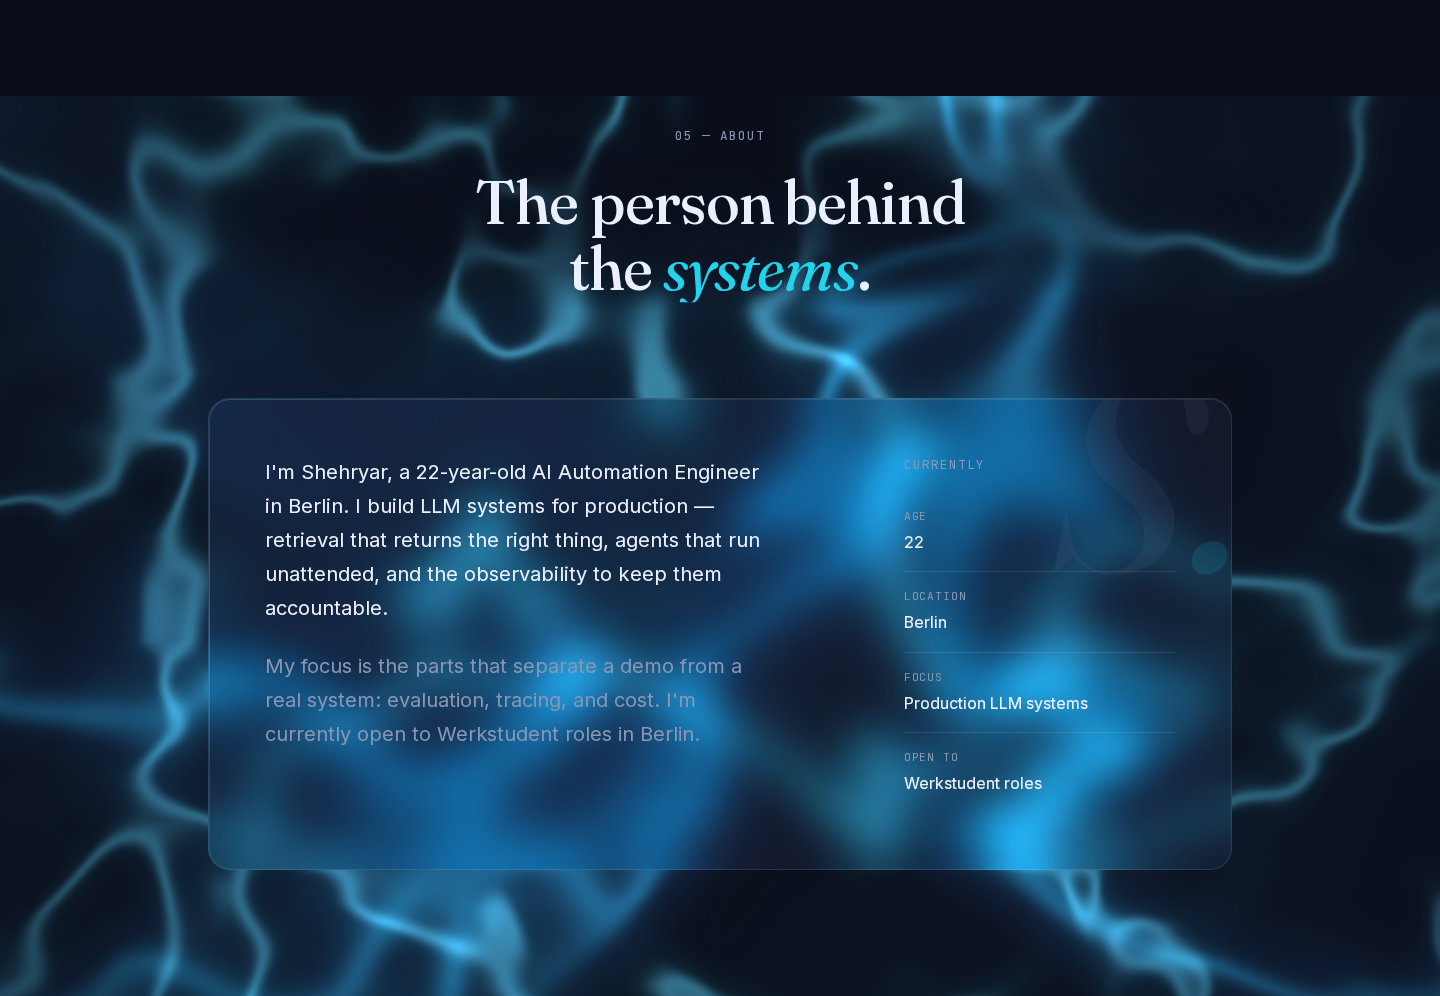
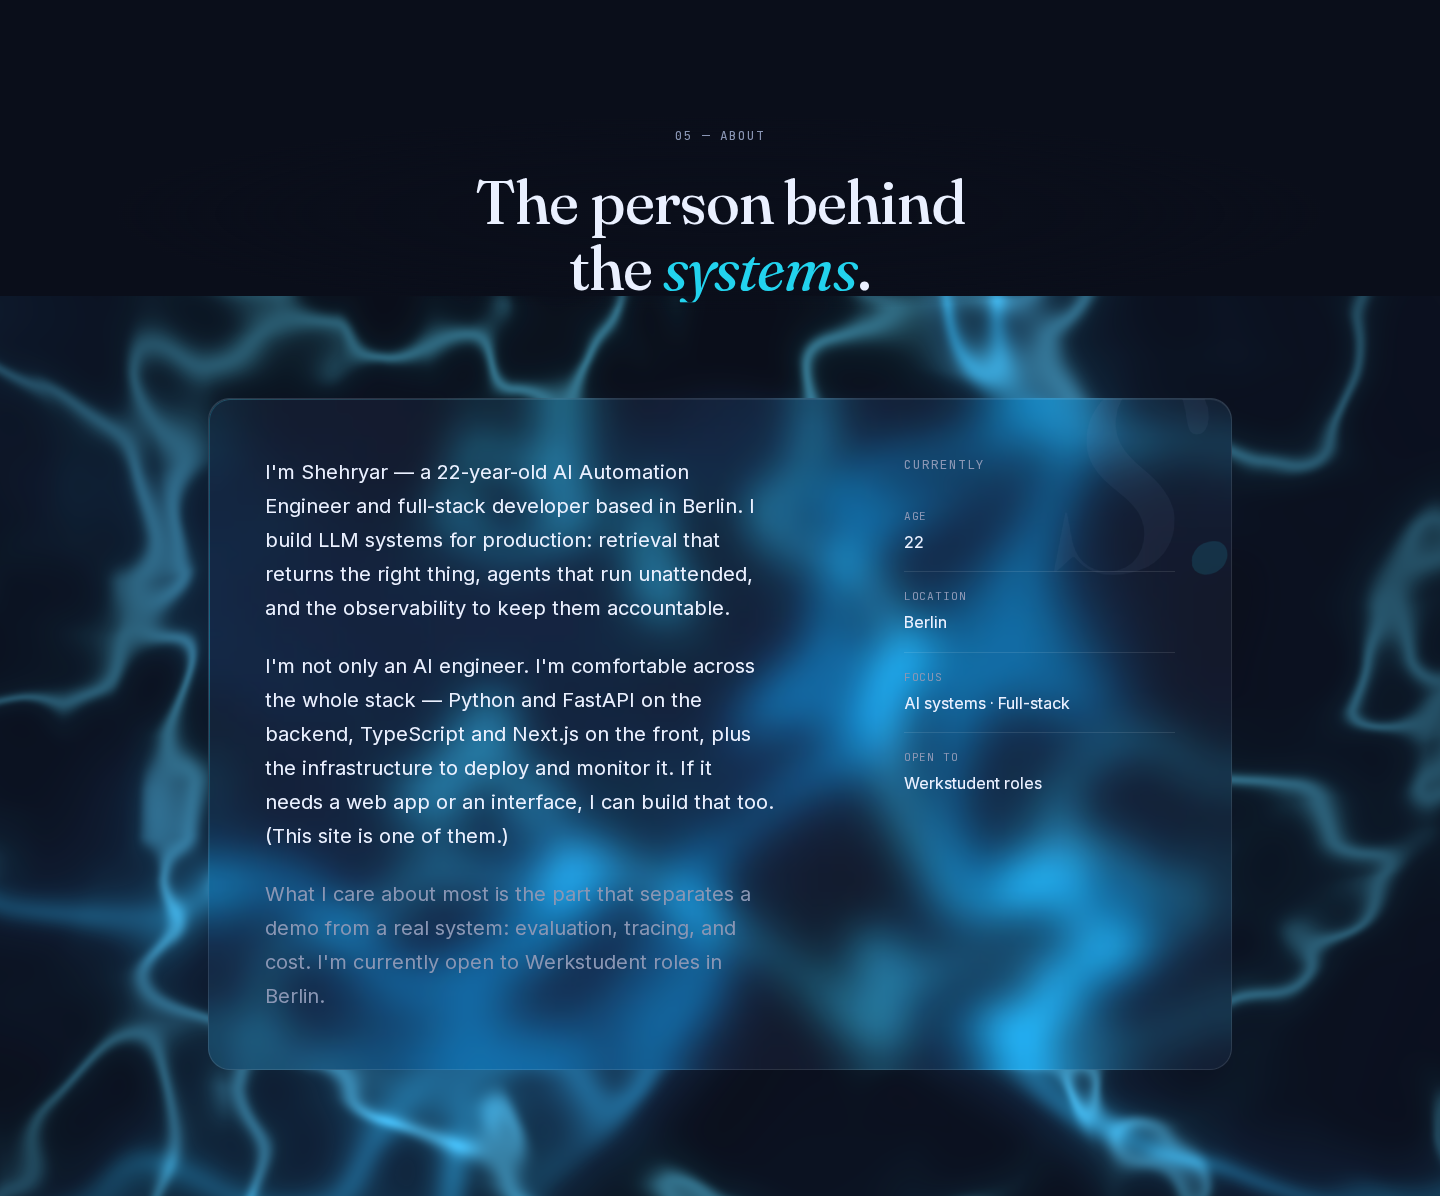
polish(portfolio-dark): About — full-stack range, 3-paragraph bio
Sherry's revised copy verbatim (AI + full-stack framing, 'this site is
one of them'); paras 1-2 in --text, closing para in --muted; Currently
Focus now 'AI systems · Full-stack'. Monogram, glass + glow, id=about
unchanged. Captures updated, 0 errors/overflow, tsc + eslint clean.

diff --git a/src/components/portfolio-dark/DarkAbout.tsx b/src/components/portfolio-dark/DarkAbout.tsx
@@ -3,7 +3,7 @@ import Reveal from "@/components/portfolio/Reveal";
 const CURRENTLY = [
   { label: "Age", value: "22" },
   { label: "Location", value: "Berlin" },
-  { label: "Focus", value: "Production LLM systems" },
+  { label: "Focus", value: "AI systems · Full-stack" },
   { label: "Open to", value: "Werkstudent roles" },
 ];
 
@@ -94,18 +94,29 @@ export default function DarkAbout() {
                   fontWeight: 420,
                 }}
               >
-                I&apos;m Shehryar, a 22-year-old AI Automation Engineer in
-                Berlin. I build LLM systems for production — retrieval that
-                returns the right thing, agents that run unattended, and the
-                observability to keep them accountable.
+                I&apos;m Shehryar — a 22-year-old AI Automation Engineer and
+                full-stack developer based in Berlin. I build LLM systems for
+                production: retrieval that returns the right thing, agents
+                that run unattended, and the observability to keep them
+                accountable.
+              </p>
+              <p
+                className="mt-[var(--space-6)]"
+                style={{ fontSize: "var(--step-1)", lineHeight: 1.7, color: "var(--text)", fontWeight: 420 }}
+              >
+                I&apos;m not only an AI engineer. I&apos;m comfortable across
+                the whole stack — Python and FastAPI on the backend, TypeScript
+                and Next.js on the front, plus the infrastructure to deploy and
+                monitor it. If it needs a web app or an interface, I can build
+                that too. (This site is one of them.)
               </p>
               <p
                 className="mt-[var(--space-6)]"
                 style={{ fontSize: "var(--step-1)", lineHeight: 1.7, color: "var(--muted)" }}
               >
-                My focus is the parts that separate a demo from a real system:
-                evaluation, tracing, and cost. I&apos;m currently open to
-                Werkstudent roles in Berlin.
+                What I care about most is the part that separates a demo from a
+                real system: evaluation, tracing, and cost. I&apos;m currently
+                open to Werkstudent roles in Berlin.
               </p>
             </div>
 
